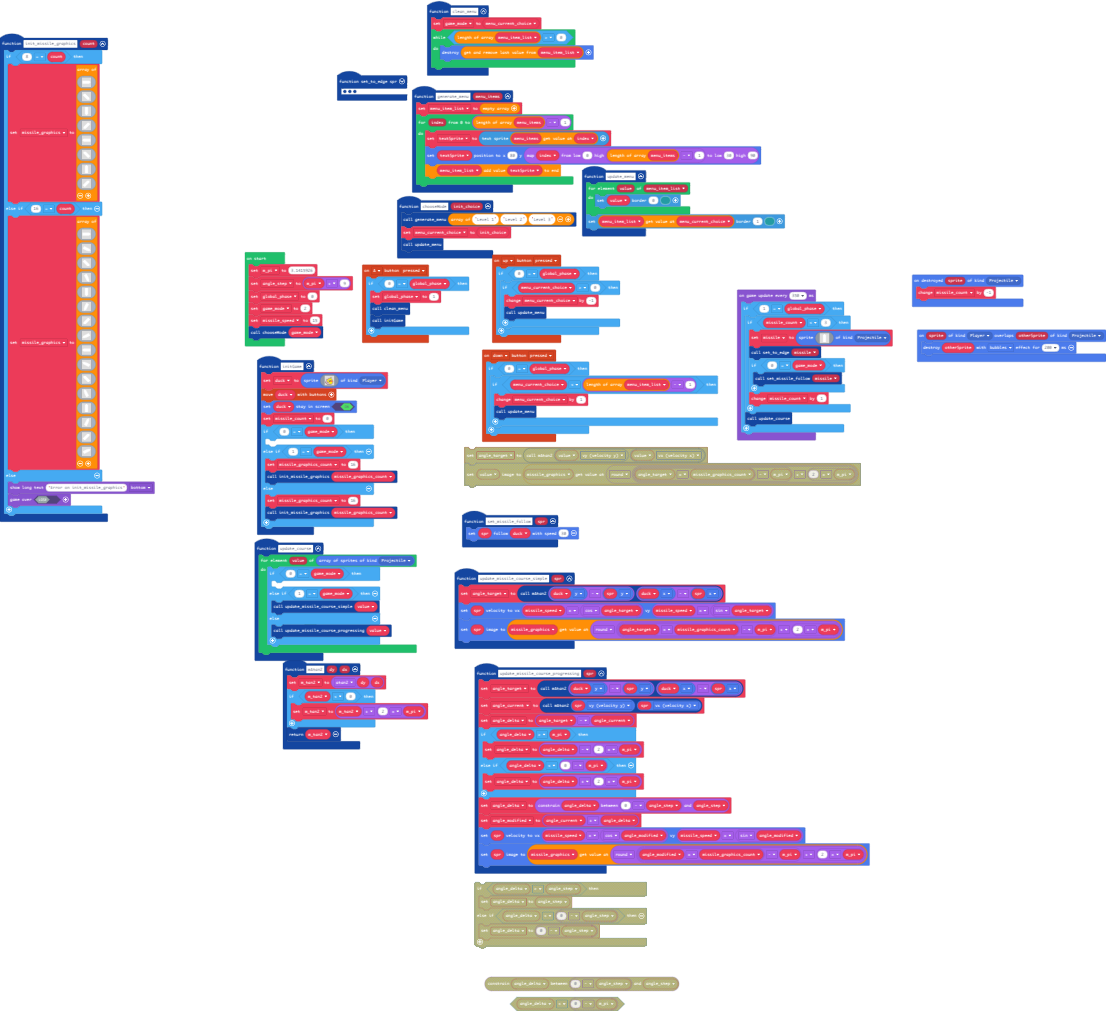
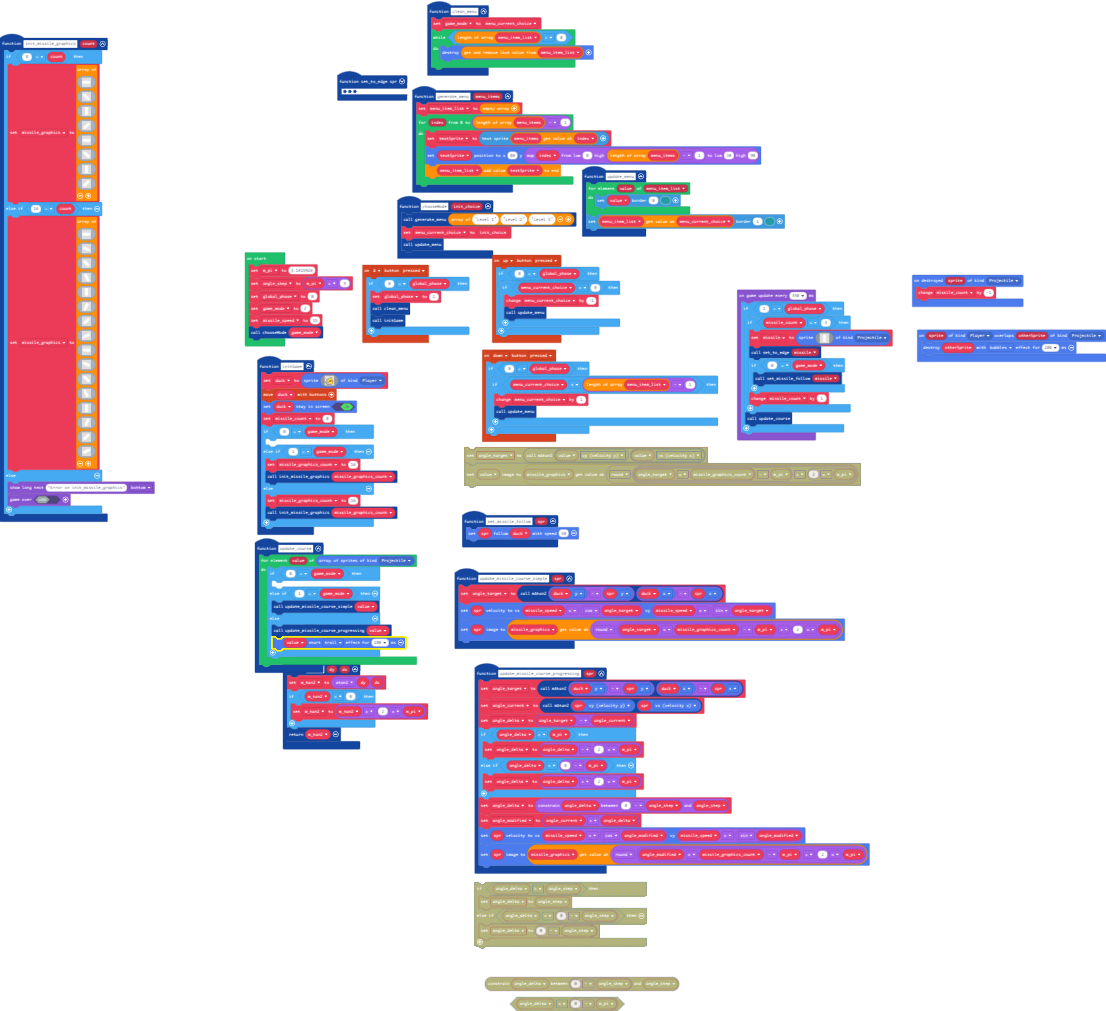
Update main.blocks, main.ts

Changed region(s): [[0.2152, 0.6133, 0.3689, 0.6746], [0.5841, 0.6746, 0.6148, 0.7052]]

diff --git a/main.ts b/main.ts
@@ -577,6 +577,7 @@ function update_course () {
             update_missile_course_simple(value)
         } else {
             update_missile_course_progressing(value)
+            value.startEffect(effects.trail, 100)
         }
     }
 }
